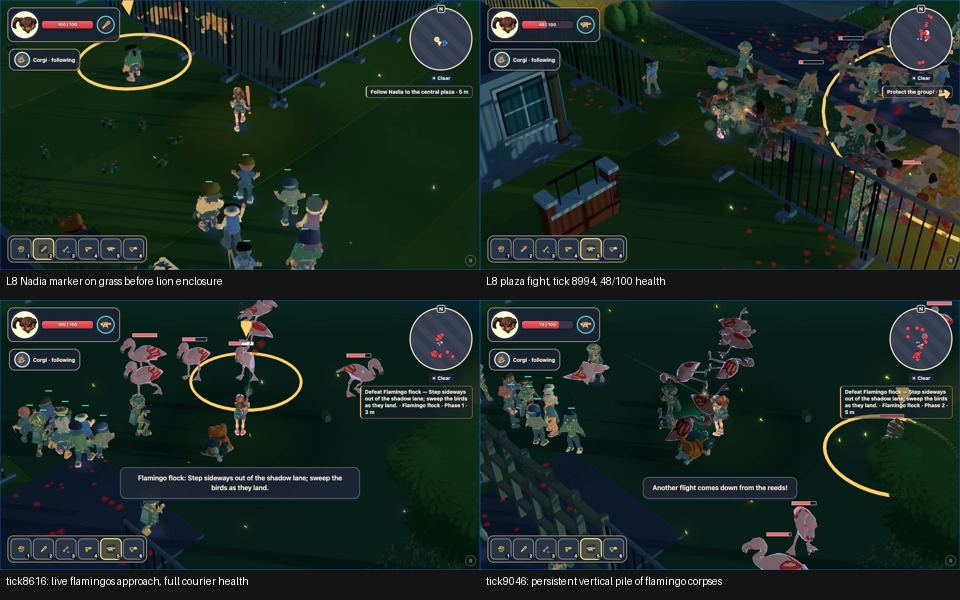
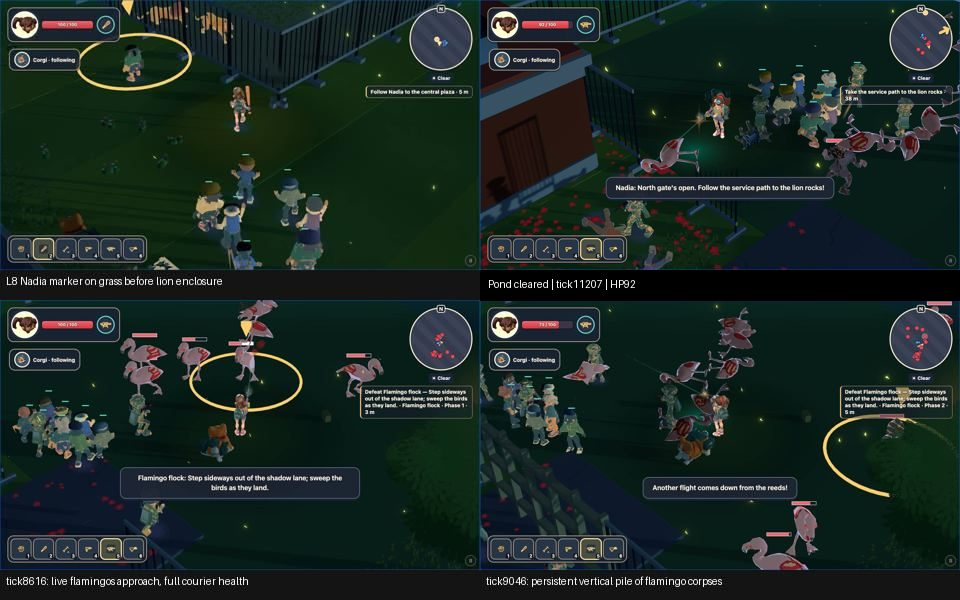
docs(qa): close batch 87 timebox with measured L4 damage and coverage gaps

Changed region(s): [[0.5, 0.0, 1.0, 0.51]]

diff --git a/docs/reports/s66-b87qa/README.md b/docs/reports/s66-b87qa/README.md
@@ -2,45 +2,50 @@
 
 **Pre-deploy verdict: HOLD. Coverage is incomplete and two new failures need review.** Game code tested: `91199b68`. No game code or specs changed; no deploy, push or main movement.
 
-Headless WebGL2/Metal, LOW, 1280×720, one browser through `tools/e2e-lock.sh` / browser pool, ports4867/4868. God OFF (`LUNA_MORTAL=1`). Normal menu and standard campaign level-start save only; no onward fixtures, teleport, bot or invulnerability. All movement, aiming, firing, hatch and driving actions used keyboard/mouse. Route decisions used screenshots, objective marker and HUD. A temporary driver also read the *rendered* marker DOM rectangle to send WASD; a later L9 retry replayed recorded real device inputs until contact divergence, then returned to manual views. The step harness pauses between actions, so this is **not a sufficient continuous-motion quality gate**. L9 final retry explicitly set camera.zoom(1); normal view and API1.5 view were opened. API1.5 widens the view; three real wheel-up notches then gave about1.52× close magnification, also opened (turn17, HUD473m). Exact1.5× close and L8/L4 camera values remain unverified. Raw evidence and numbered input/action frames stay in `test-results/s66-b87qa/`.
+Headless WebGL2/Metal, LOW, 1280×720, one browser through `tools/e2e-lock.sh` / browser pool, ports 4867/4868. God OFF (`LUNA_MORTAL=1`). Normal menu and standard campaign level-start save only; no onward fixtures, teleport, bot or invulnerability. All movement, aiming, firing, hatch and driving actions used keyboard/mouse. The stock live harness enables the joint-pose audit probe; no entity/world probe results were used for navigation or aiming. Route decisions used screenshots, objective marker and HUD. A temporary driver also read the *rendered* marker DOM rectangle to send WASD; a later L9 retry replayed recorded real device inputs until contact divergence, then returned to manual views. The step harness pauses between actions, so this is **not a sufficient continuous-motion quality gate**. L9 final retry explicitly set camera.zoom(1); normal view and API 1.5 view were opened. API 1.5 widens the view; three real wheel-up notches then gave about 1.52× close magnification, also opened (turn17, HUD473m). Exact 1.5× close remains unverified. Later L8/L4 retries explicitly start at API zoom 1; L4 also has an opened ~1.52× close view at `l4-armor/.frames/turn-000019-action.jpg`, tick 2994, HP 30: nearby human, armored and butcher figures at the perimeter. L8 close coverage remains incomplete. A later L8 recordVideo request exported no artifact, so it supplies no continuous-motion verdict. Raw evidence and numbered input/action frames stay in `test-results/s66-b87qa/`.
 
-QA build `MI_BUILD_CACHE=off npm run build:qa` passed (11.08s). Initial listener permissions were subsequently resolved. Browser idle release and595s reservation caps interrupted several attempts; these are harness limits, not game failures. Code checks were not rerun because this lane changes reports only.
+QA build `MI_BUILD_CACHE=off npm run build:qa` passed (11.08s). Initial listener permissions were subsequently resolved. Browser idle release and 595 s reservation caps interrupted several attempts; these are harness limits, not game failures. Code checks were not rerun because this lane changes reports only. Automated invariant/release gates, WebGPU and baseline A/B were not run by this lane.
 
 ## Evidence-backed findings
 
 | Verdict | Finding and observed result | Position / tick | Opened capture |
 |---|---|---|---|
-| **NEW · P1** | Recoverable driving blockage: no meaningful onward progress for12.23 simulated seconds despite forward/steering input. APC spun/impacted near crowd and roadside props/wall; reverse and further steering eventually recovered. Another bus/roadside trap lasted>10s. Cause is not isolated to zombie impact. | L9 HUD632–639m; ticks8195–8929. Later121–122m trap. | [L9 sheet](l9-partial.jpg), upper-left shows crowd/obstruction and depleted armor; upper-right shows the bay4/4; middle-left shows close flat-road APC. Later bus/roadside trap raw: `l9-final/bus-trap-turn35.jpg` (opened). |
+| **NEW · P1** | Recoverable driving blockage: no meaningful onward progress for 12.23 simulated seconds despite forward/steering input. APC spun/impacted near crowd and roadside props/wall; reverse and further steering eventually recovered. Another bus/roadside trap lasted>10s. Cause is not isolated to zombie impact. | L9 HUD632–639m; ticks8195–8929. Later121–122m trap. | [L9 sheet](l9-partial.jpg), upper-left shows crowd/obstruction and depleted armor; upper-right shows the bay 4/4; middle-left shows close flat-road APC. Later bus/roadside trap raw: `l9-final/bus-trap-turn35.jpg` (opened). |
 | **NEW · P2** | Several dead flamingos remain suspended in a tall interpenetrating column beside/above the courier across successive views while live birds keep attacking. | L8 pond Phase2, HUD5m; tick9046 (also8801 and later). | [L8 sheet](l8-partial.jpg), lower-right: vertical pink corpse pile; lower-left: live flock approach at8616. |
 | **FIXED — limited scope** | Rail stall has an explicit countdown, hatch instructions and restart cue. Countdown18→15→10→6→2, then “Engine restarted — drive! (W)”; W reduced distance78→40m. | L9 rail, tick9278 countdown;10408 restart;10642 onward. | [L9 sheet](l9-partial.jpg), bottom-left: hatch defence HUD. Restart raw frame `l9-final/.frames/turn-000050-action.jpg` was opened earlier; bottom-right now shows L10 arrival. |
-| **FIXED — limited scope** | Hatch shows upper torso and weapon. F closes it; health40 remained through the remainder of that defence. | L9 rail, HUD79m; tick9278. | L9 bottom-left: visible upper body above roof (new run tick8984). |
+| **FIXED — limited scope** | Hatch shows upper torso and weapon. F closes it; health 40 remained through the remainder of that defence. | L9 rail, HUD79m; tick9278. | L9 bottom-left: visible upper body above roof (new run tick8984). |
 | **FIXED — warning only** | Bus attack receives a visible warning and red attack lane: “School bus lining up a ram · dodge now!1s”. Clean dodge/defeat remains unverified. | L9 HUD157m, action43 of first run; exact tick not retained. | Opened raw `l9/bus-telegraph-turn43.jpg`: warning HUD and red lane behind APC. |
 
-Raw paths above are relative to `test-results/s66-b87qa/` unless linked into this report. NEW means a newly observed issue; no baseline evidence establishes a regression. Authored rail defence lasts20s and is explicitly announced; the separate unannounced driving blockages exceed the10s P1 threshold. After crawl completion, the objective was blank for roughly8–12s before automatic L10 loading; transition completed, no softlock.
+Raw paths above are relative to `test-results/s66-b87qa/` unless linked into this report. NEW means a newly observed issue; no baseline evidence establishes a regression. Authored rail defence lasts 20 s and is explicitly announced; the separate unannounced driving blockages exceed the 10 s P1 threshold. After crawl completion, the objective was blank for roughly 8–12 s before automatic L10 loading; transition completed, no softlock.
 
 ## Required checks and honest limits
 
 | Requested check | Result |
 |---|---|
-| L9 start→bay→bridge→end | **COMPLETE** from normal start: rail restart, bay4/4 at tick13006 (HP100), bridge cinematic, crawl20→17→7→0m (tick14888), then automatic L10 transition and arrival (L10tick60). No death in final run. |
+| L9 start→bay→bridge→end | **COMPLETE** from normal start: rail restart, bay 4/4 at tick 13006 (HP100), bridge cinematic, crawl 20→17→7→0m (tick 14888), then automatic L10 transition and arrival (L10 tick 60). No death in final run. |
 | L9 driver over soldier at start | Not verified sufficiently to issue FIXED. |
-| L9 hull flicker, flame through hull, wheels on ramp/fall | Wheels and hull present on flat-road views; brief glazing/flame overlap ambiguous. Bridge approach tick14018 shows hull and visible wheels together (middle-right sheet). Collapse tick14057 shows vehicle partly occluded by falling deck; tick14078 vehicle is hidden while brute remains. No clean visible vehicle fall was captured, so ramp/fall rendering and temporal flicker remain unresolved. |
+| L9 hull flicker, flame through hull, wheels on ramp/fall | Wheels and hull present on flat-road views; brief glazing/flame overlap ambiguous. Bridge approach tick 14018 shows hull and visible wheels together (middle-right sheet). Collapse tick 14057 shows vehicle partly occluded by falling deck; tick 14078 vehicle is hidden while brute remains. No clean visible vehicle fall was captured, so ramp/fall rendering and temporal flicker remain unresolved. |
 | L9 keeps driving over zombies; ordinary rams cost no armor | Long stretches maintain onward movement with contacts. Armor losses near mixed props, attackers and boarders are confounded. No isolated armor-billing pass. Driving recovery issue above remains. |
 | L9 barriers fly and persist | Displacement seen; settled persistence not verified. |
-| L8 flamingo gait | Arena reached and combat played, including Phase2. Live foot-slide not resolved by these captures; corpse failure above is separate. |
-| L8 lion smoothness | Lion arena not reached. Brief animals behind bars during tour do not count as arena coverage. |
-| L4 brute/butcher while continuously firing automatic weapon | At tick2875 health90; aimed MG held4s, then re-aimed and held3s, ending tick3303 health0. **90 net HP lost during7s firing**, one death. Mixed butcher/armored/hazmat/firefighter crowd and army fire prevent exact hit count or attacker attribution. This does not establish the isolated stun-lock fix. |
-| Armored front vs rear shots-to-kill | Shield visibly broke during MG fire, tick3981 (“SHIELD BROKEN1.6s”). Army fire and mixed crowd prevent directional shot counts. Comparison incomplete. |
+| L8 flamingo gait | **Arena defeated** in `l8-last`, tick 11207, health 92, following one death and normal retry. Short bursts and sideways movement avoided rushes; allied support recovered health. Live foot-slide not resolved by these captures; corpse failure above is separate. |
+| L8 lion smoothness | Pond cleared, followed service path through tick 12640 before reservation cap; lion arena not yet reached. Brief animals behind bars during tour do not count as arena coverage. |
+| L4 brute/butcher while continuously firing automatic weapon | At tick 2875 health 90; aimed MG held 4 s, then re-aimed and held 3 s, ending tick 3303 health 0. **90 net HP lost during 7 s firing**, one death. Mixed butcher/armored/hazmat/firefighter crowd and army fire prevent exact hit count or attacker attribution. A later consecutive-frame exchange is measured below; neither mixed fight establishes the isolated stun-lock fix. |
+| Armored front vs rear shots-to-kill | Shield visibly broke during MG fire, tick 3981 (“SHIELD BROKEN 1.6 s”). Army fire and mixed crowd prevent directional shot counts. Comparison incomplete. |
 | L2 market / L7 bus | Optional; not played. |
 
-Opened [L4 sheet](l4-partial.jpg): left shows butcher at the sandbag gap with health90 (2875), middle shows death after the MG burst (3303), right shows broken shield and butcher corpse (3981). It proves danger under continuous fire, not which enemy landed each hit.
+Opened [L4 sheet](l4-partial.jpg): top-left HP 100 / tick 2735, top-right HP 90 / tick 2745, middle-left HP 70 / tick 2863, middle-right HP 57 / tick 3100; bottom-left earlier death 3303, bottom-right earlier shield break 3981. The fresh run captured 25 consecutive frames during each of two 4 s MG holds (ticks2598–3100). Opened health/pose mosaics show **six 10 HP drops** at 2745,2804,2863,2949,2993,3033, plus **3 HP damage** at 3073, and **20 HP recovery** at 2910: **63 gross damage / 43 net HP lost**. The 3 HP event is not claimed as a distinct melee hit. Butchers continue approaching/attack motions during firing, but armored/hazmat contacts overlap; butcher-only attack damage and the isolated stun-lock verdict remain inconclusive. Raw consecutive frames and tick ledger: `l4-last/burst-15/`, `burst-16/`, `timing.jsonl`.
+
 
 ## Player impression
 
 | Level | Glitches / pacing / threat | Stunning |
 |---|---|---|
 | L9, full route | Driving is readable on clear stretches; repeated prop/crowd recovery feels like babysitting. Dangerous when blocked, not harmless. Rail wait now explains itself. Dark sparse roadside and steering recovery reduce spectacle. |5/10|
-| L8, partial | Flamingos are dangerous (two deaths). Repeated flights and Phase2 without a remaining-flock count felt prolonged; vertical corpse stack visibly undermines the scene. No confirmed>10s navigation stall. |5/10 overall; flamingos3/10|
+| L8, partial | Flamingos are dangerous (multiple deaths across attempts; one complete clear with HP 92). Repeated flights and Phase2 without a remaining-flock count felt prolonged; vertical corpse stack visibly undermines the scene. No confirmed >10 s navigation stall. Escort tour feels passive and crowded; service-path markers remain readable. |5/10 overall; flamingos3/10|
 | L4, sampled fight | Dangerous, not boring or harmless. Large butcher and mixed crowd overlap; unable to isolate attack attribution. No babysitting seen in this short fight. |5/10|
 
-Scores are subjective and cover only played sections. L9 ending spectacle is6/10 locally: collapse, companions and brute are readable, but vehicle/deck occlusion makes the fall difficult to judge. **No full batch approval is supported.**
+Scores are subjective and cover only played sections. L9 ending spectacle is 6/10 locally: collapse, companions and brute are readable, but vehicle/deck occlusion makes the fall difficult to judge. The played figure scores are below the PO checklist’s 8/10 target. **No full batch approval is supported.**
+
+## Time-box closeout
+
+No browser/check is left running. Remaining required coverage: **lion arena; continuous lion/flamingo gait; exact 1.5× close views across levels; isolated butcher stun-lock/damage attribution; armored front/rear shots-to-kill; isolated APC ram billing; persistent thrown barriers; clear ramp/fall, flame-depth and flicker verdicts.** Optional L2 market and L7 bus were not played. These are unverified, not FIXED. The two-hour QA window ends with this partial HOLD report.
